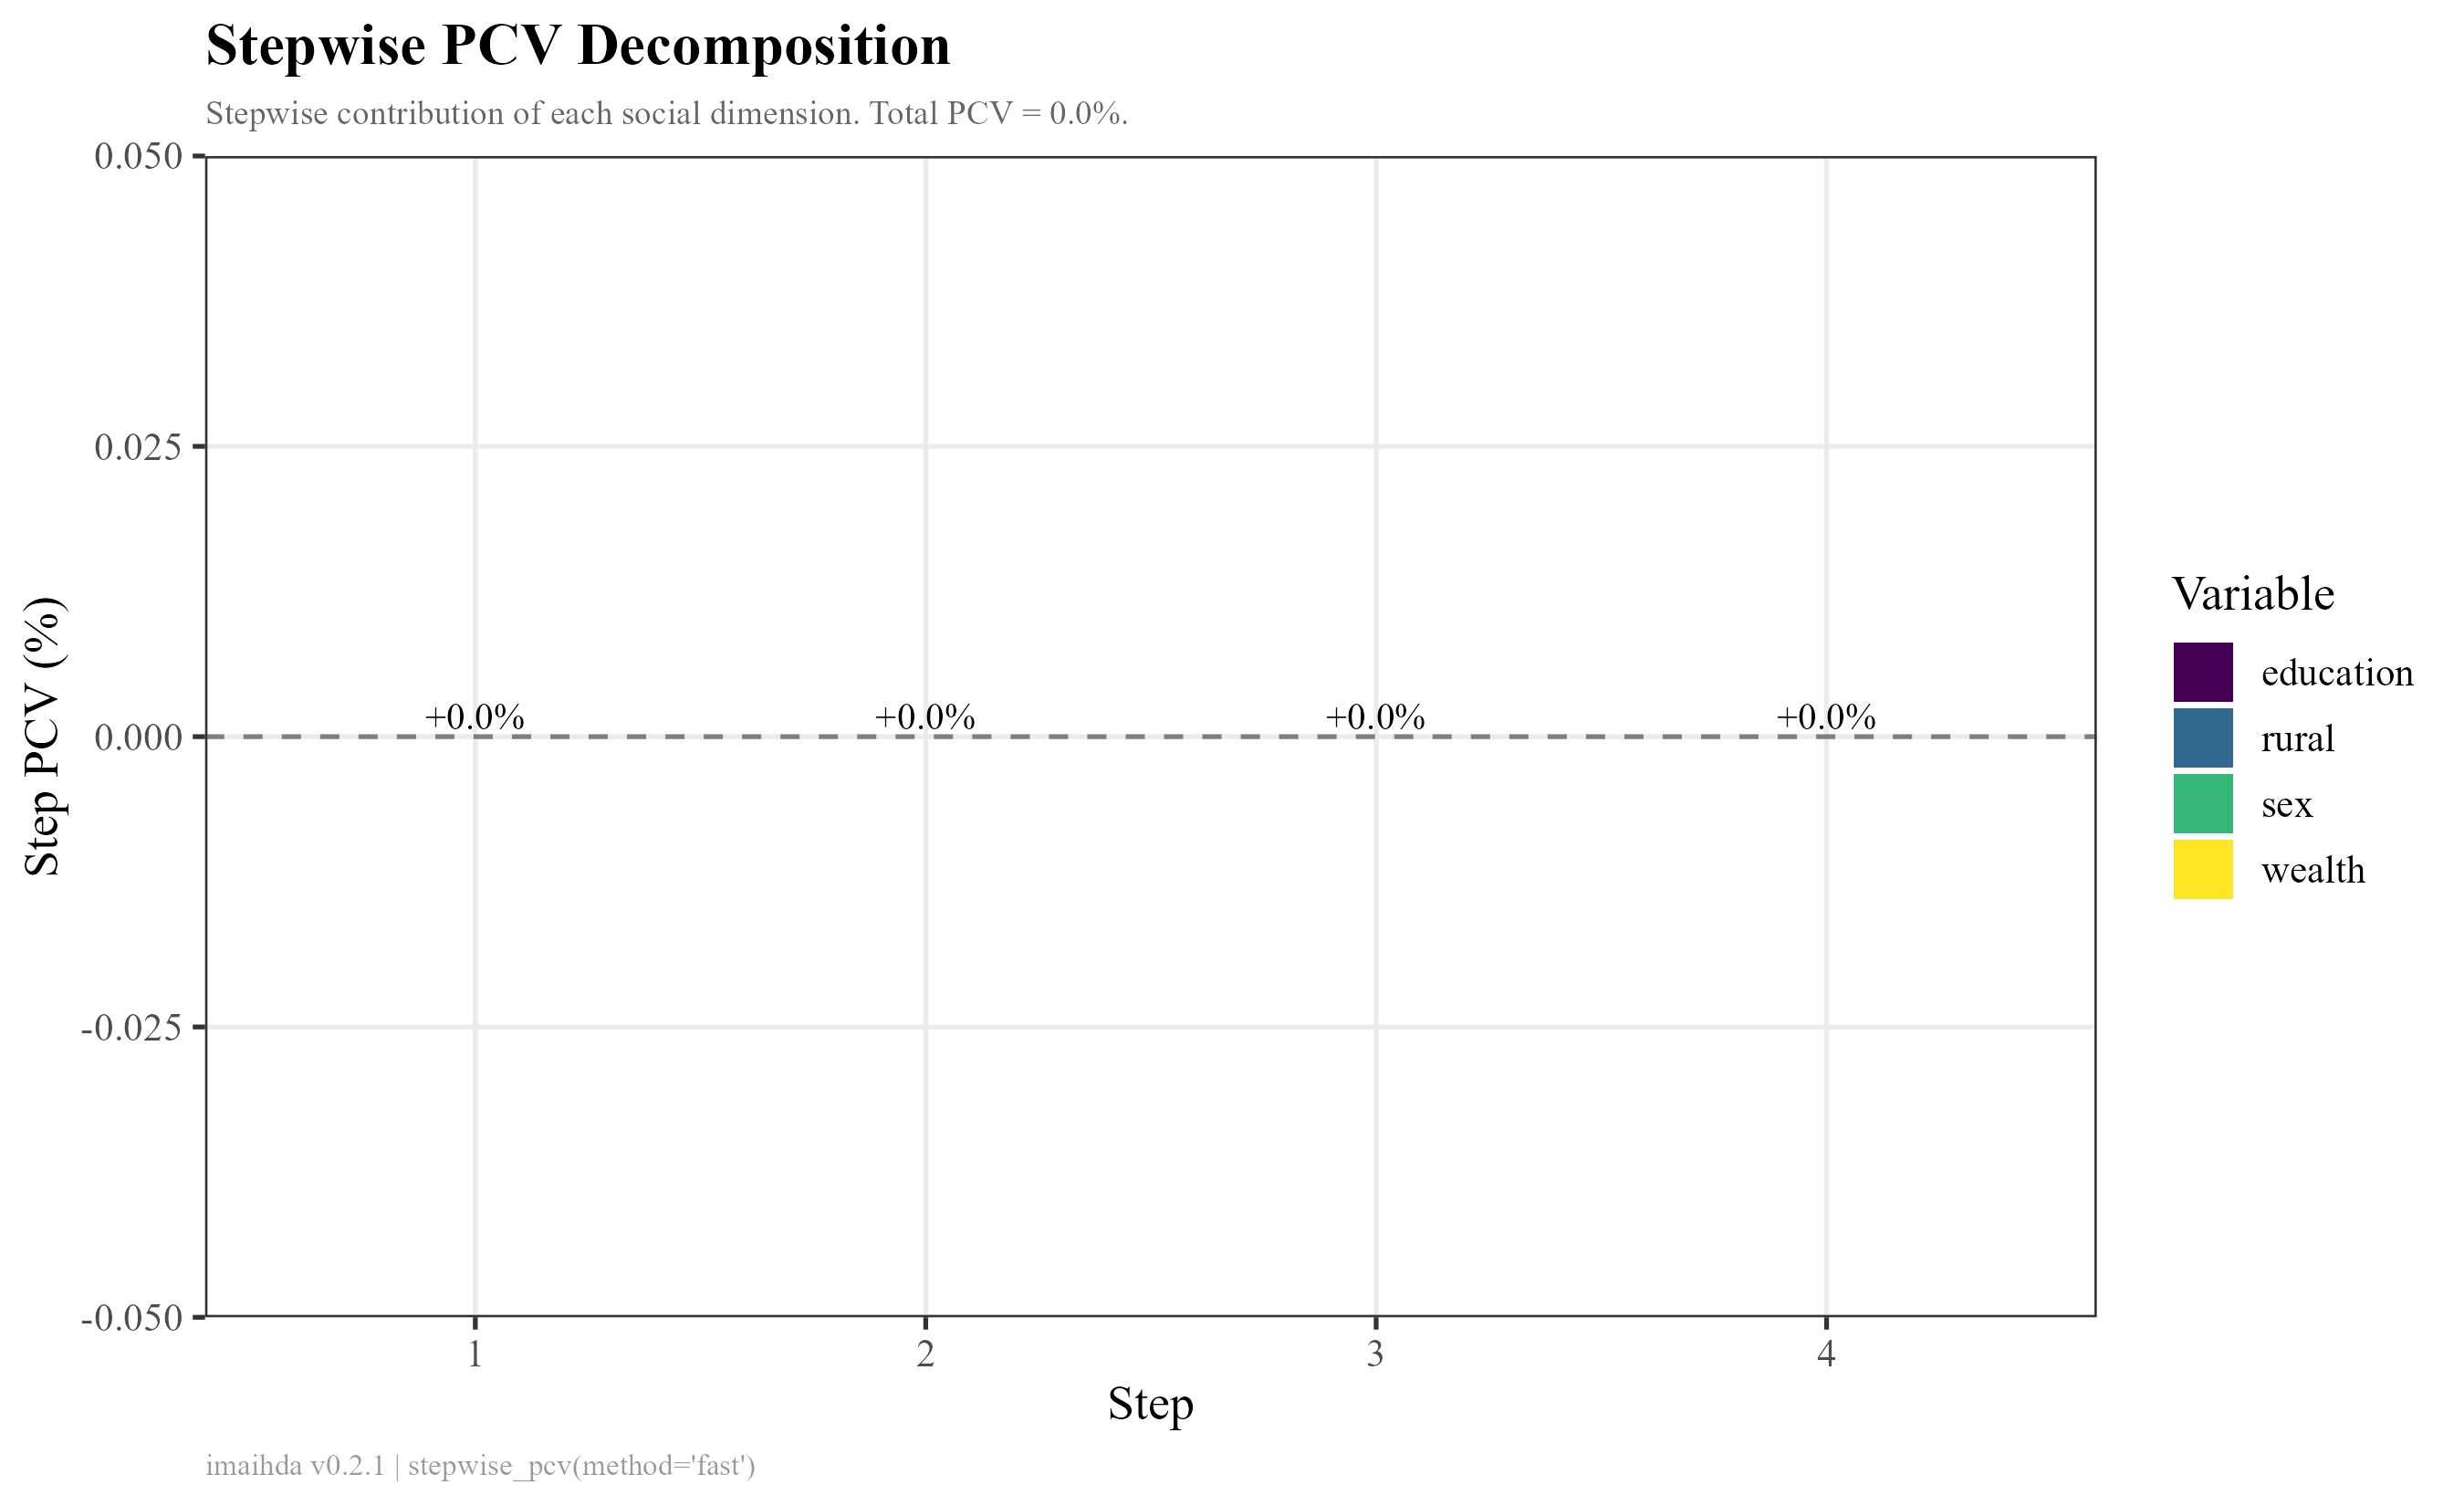
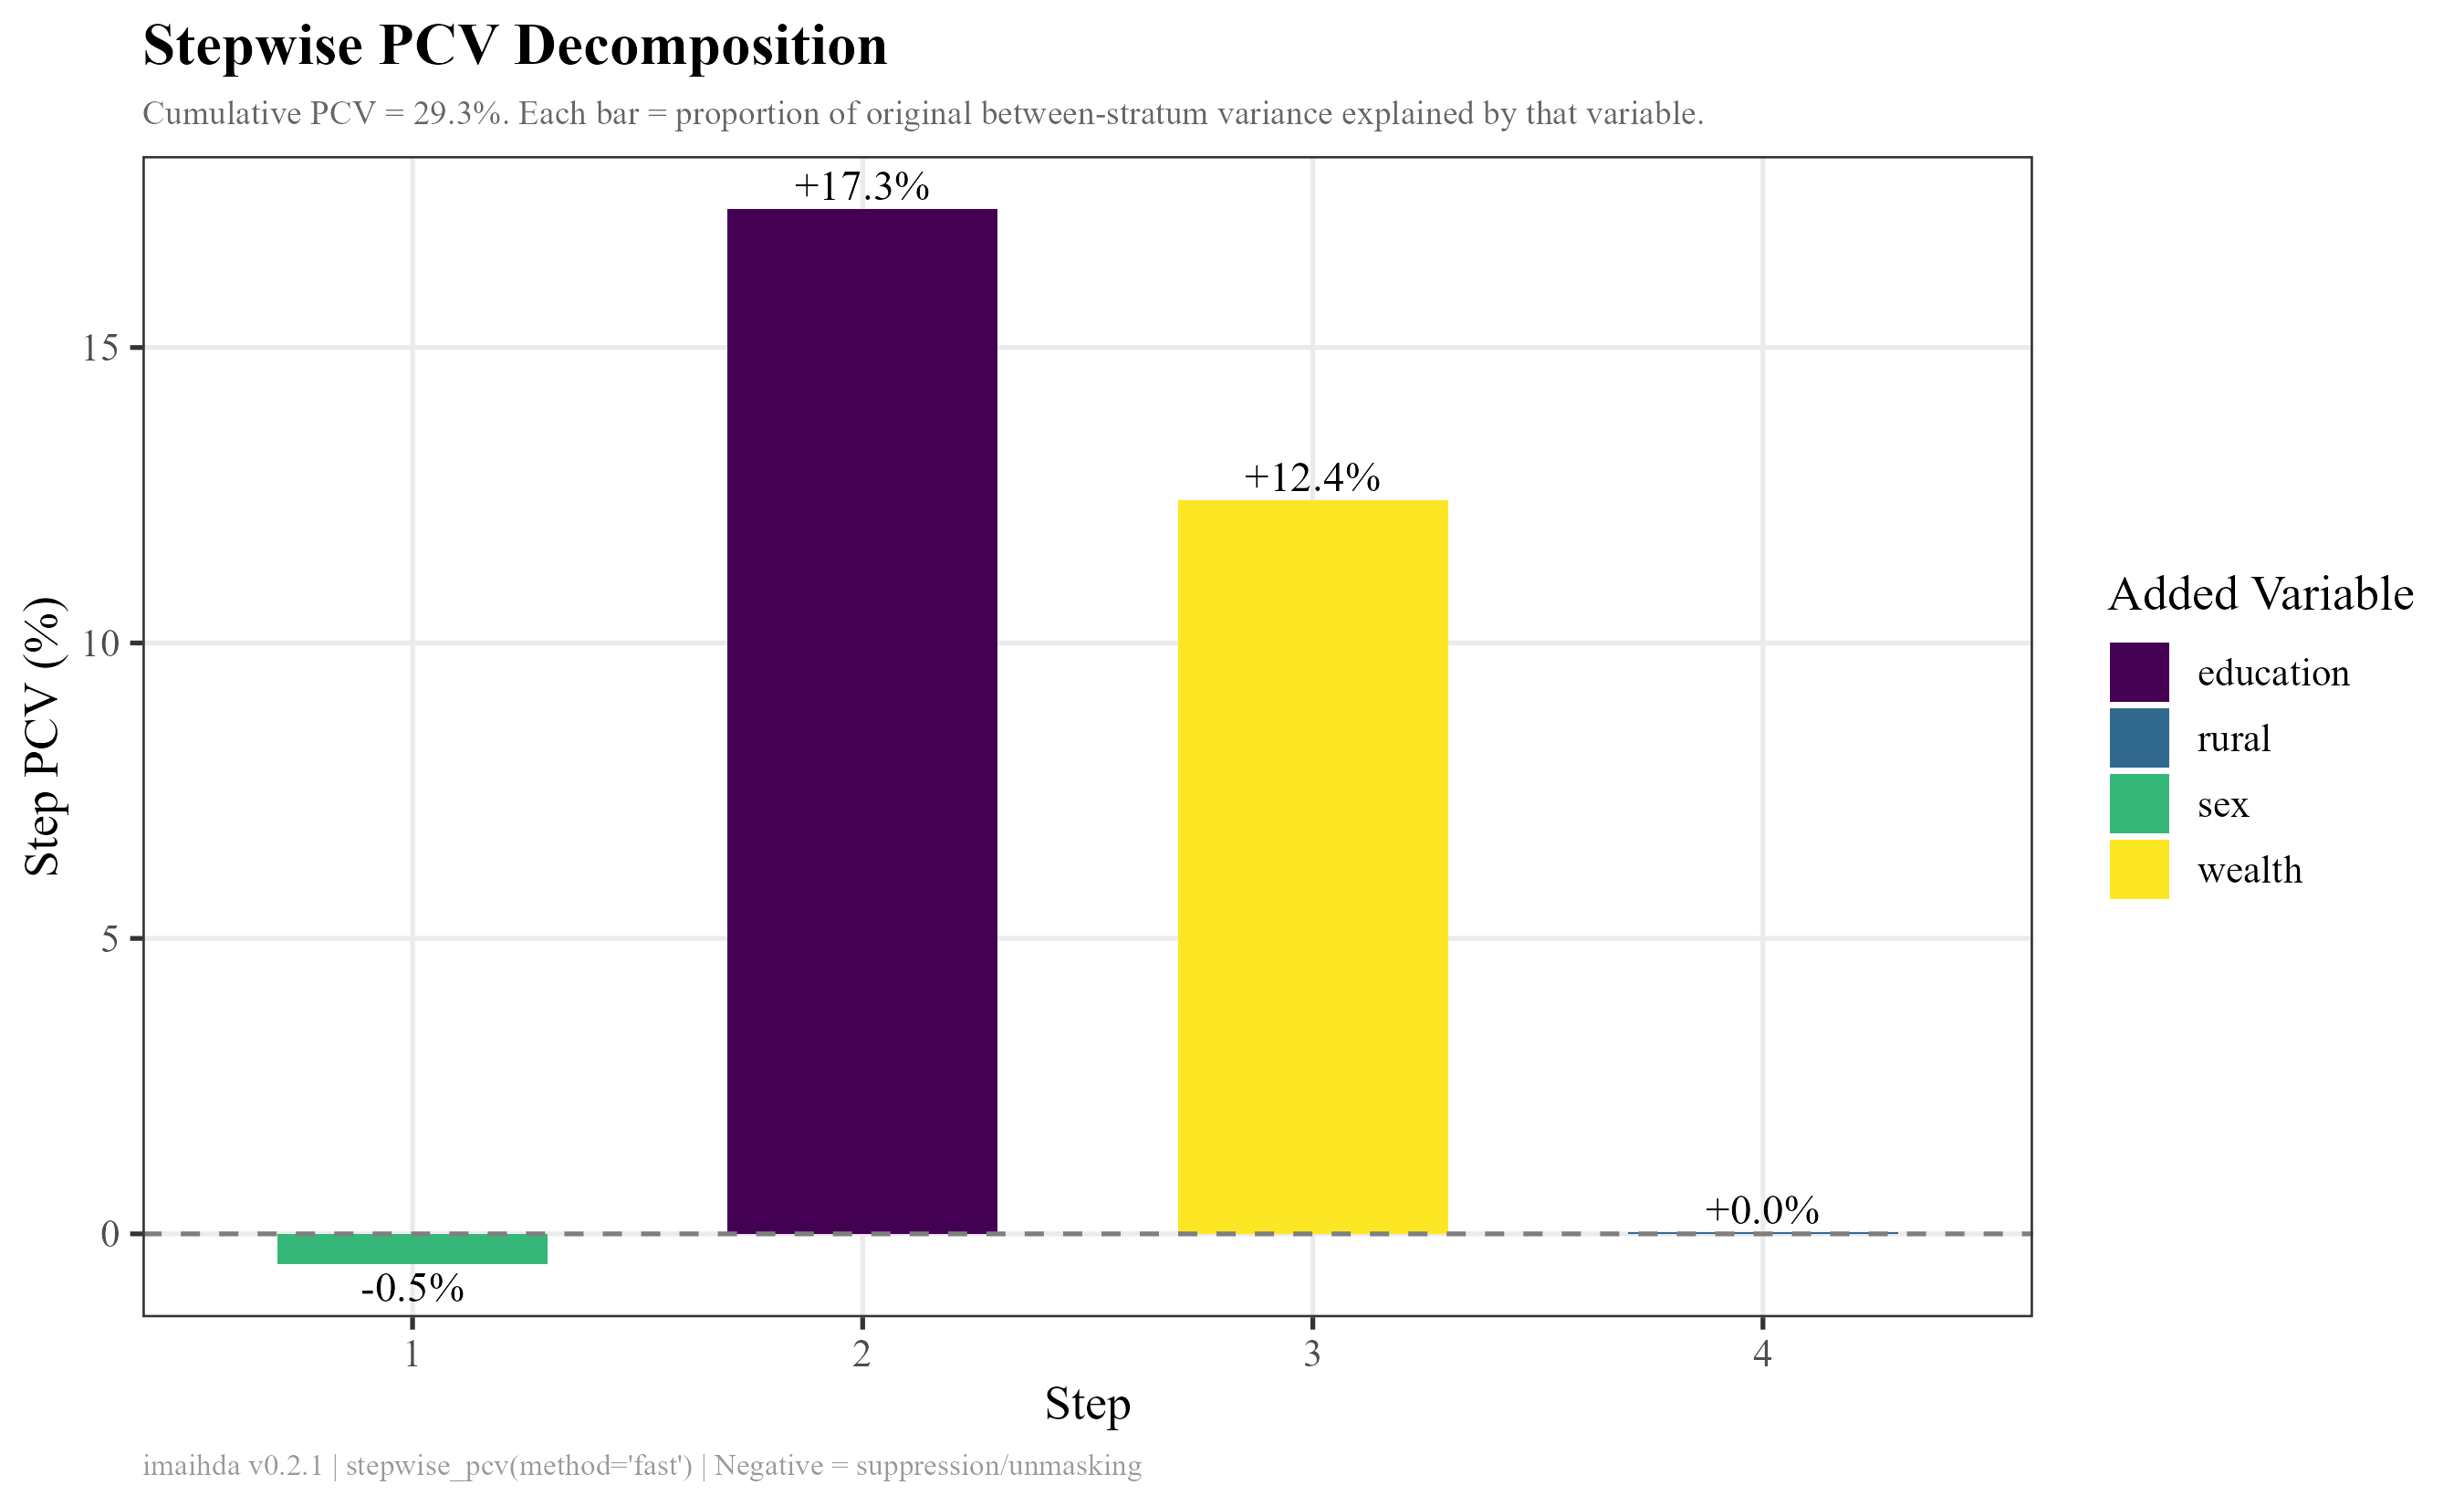
fix: stepwise_pcv zero-variance bug + remove useless plot_vpc figure
stepwise_pcv bug: the fast-method branch was passing all-zero covariates
to aggregate_strata(), producing identical GLM predictions for every
stratum and thus zero Step_PCV at every step. Fixed by pre-aggregating
strata with actual covariate values from the data.

Verified: stepwise now correctly decomposes variance (e.g., education
explains 17.3%, wealth 12.4%, total PCV = 29.3%).

README changes:
- Removed plot_vpc() single-call figure from both EN and VI READMEs
  (figure provides no additional information beyond what the benchmark
  VPC chart already shows)
- Deleted figures/plot_vpc_example.png

Regenerated figures/stepwise_pcv_example.png with non-trivial data.

51 tests pass.

diff --git a/README.md b/README.md
@@ -137,10 +137,6 @@ Where:
 
 ### 4. Function visualizations
 
-**`plot_vpc()`** — Single-call VPC bar chart:
-
-![plot_vpc example](figures/plot_vpc_example.png)
-
 **`plot_strata()`** — Caterpillar plot of stratum random effects with 95% CIs:
 
 ![plot_strata example](figures/plot_strata_example.png)

diff --git a/README_vi.md b/README_vi.md
@@ -137,10 +137,6 @@ Trong đó:
 
 ### 4. Hình minh họa các hàm
 
-**`plot_vpc()`** — Biểu đồ cột VPC dùng một lệnh:
-
-![plot_vpc example](figures/plot_vpc_example.png)
-
 **`plot_strata()`** — Biểu đồ caterpillar hiệu ứng ngẫu nhiên từng strata với CI 95%:
 
 ![plot_strata example](figures/plot_strata_example.png)